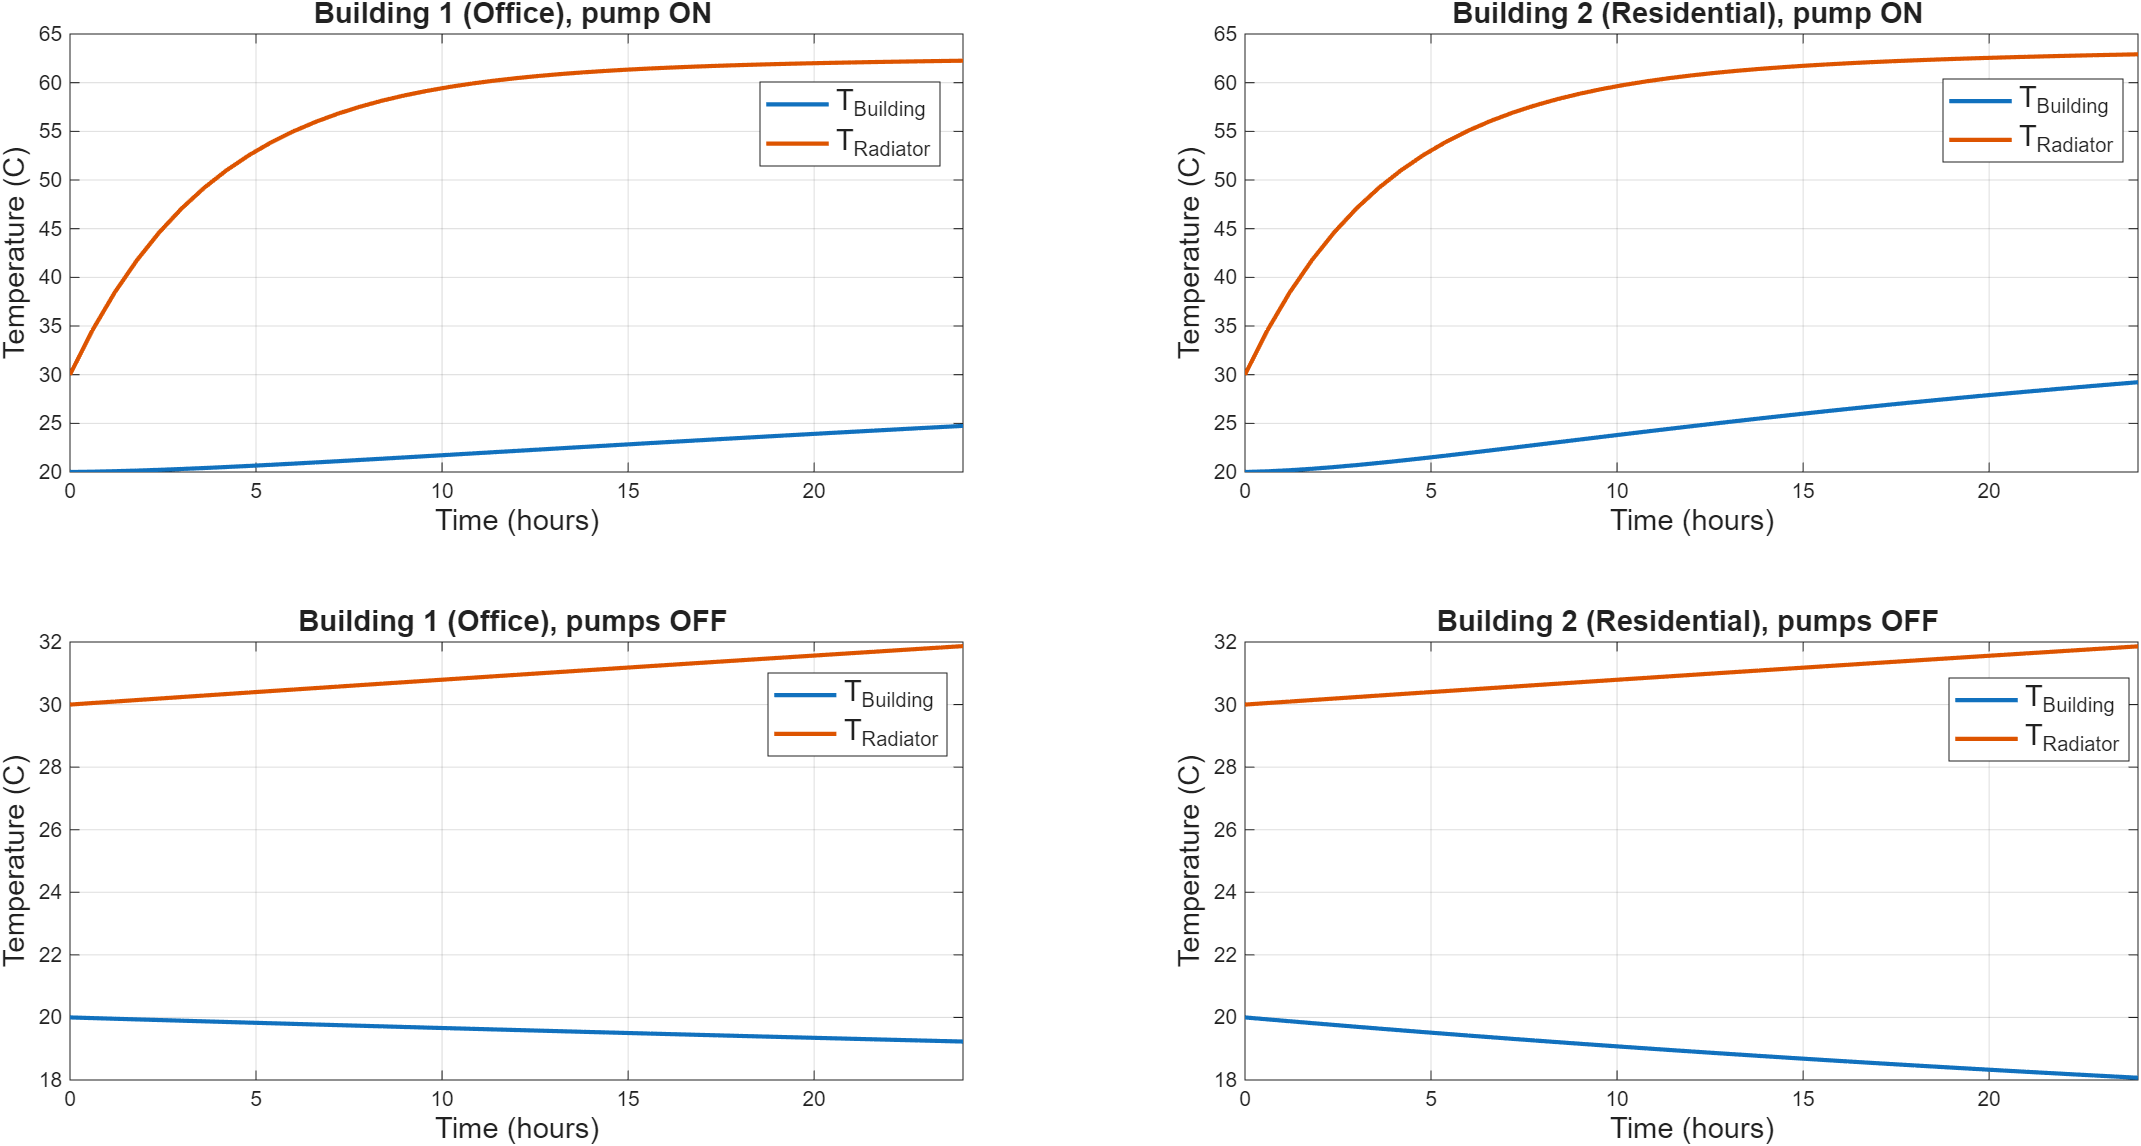
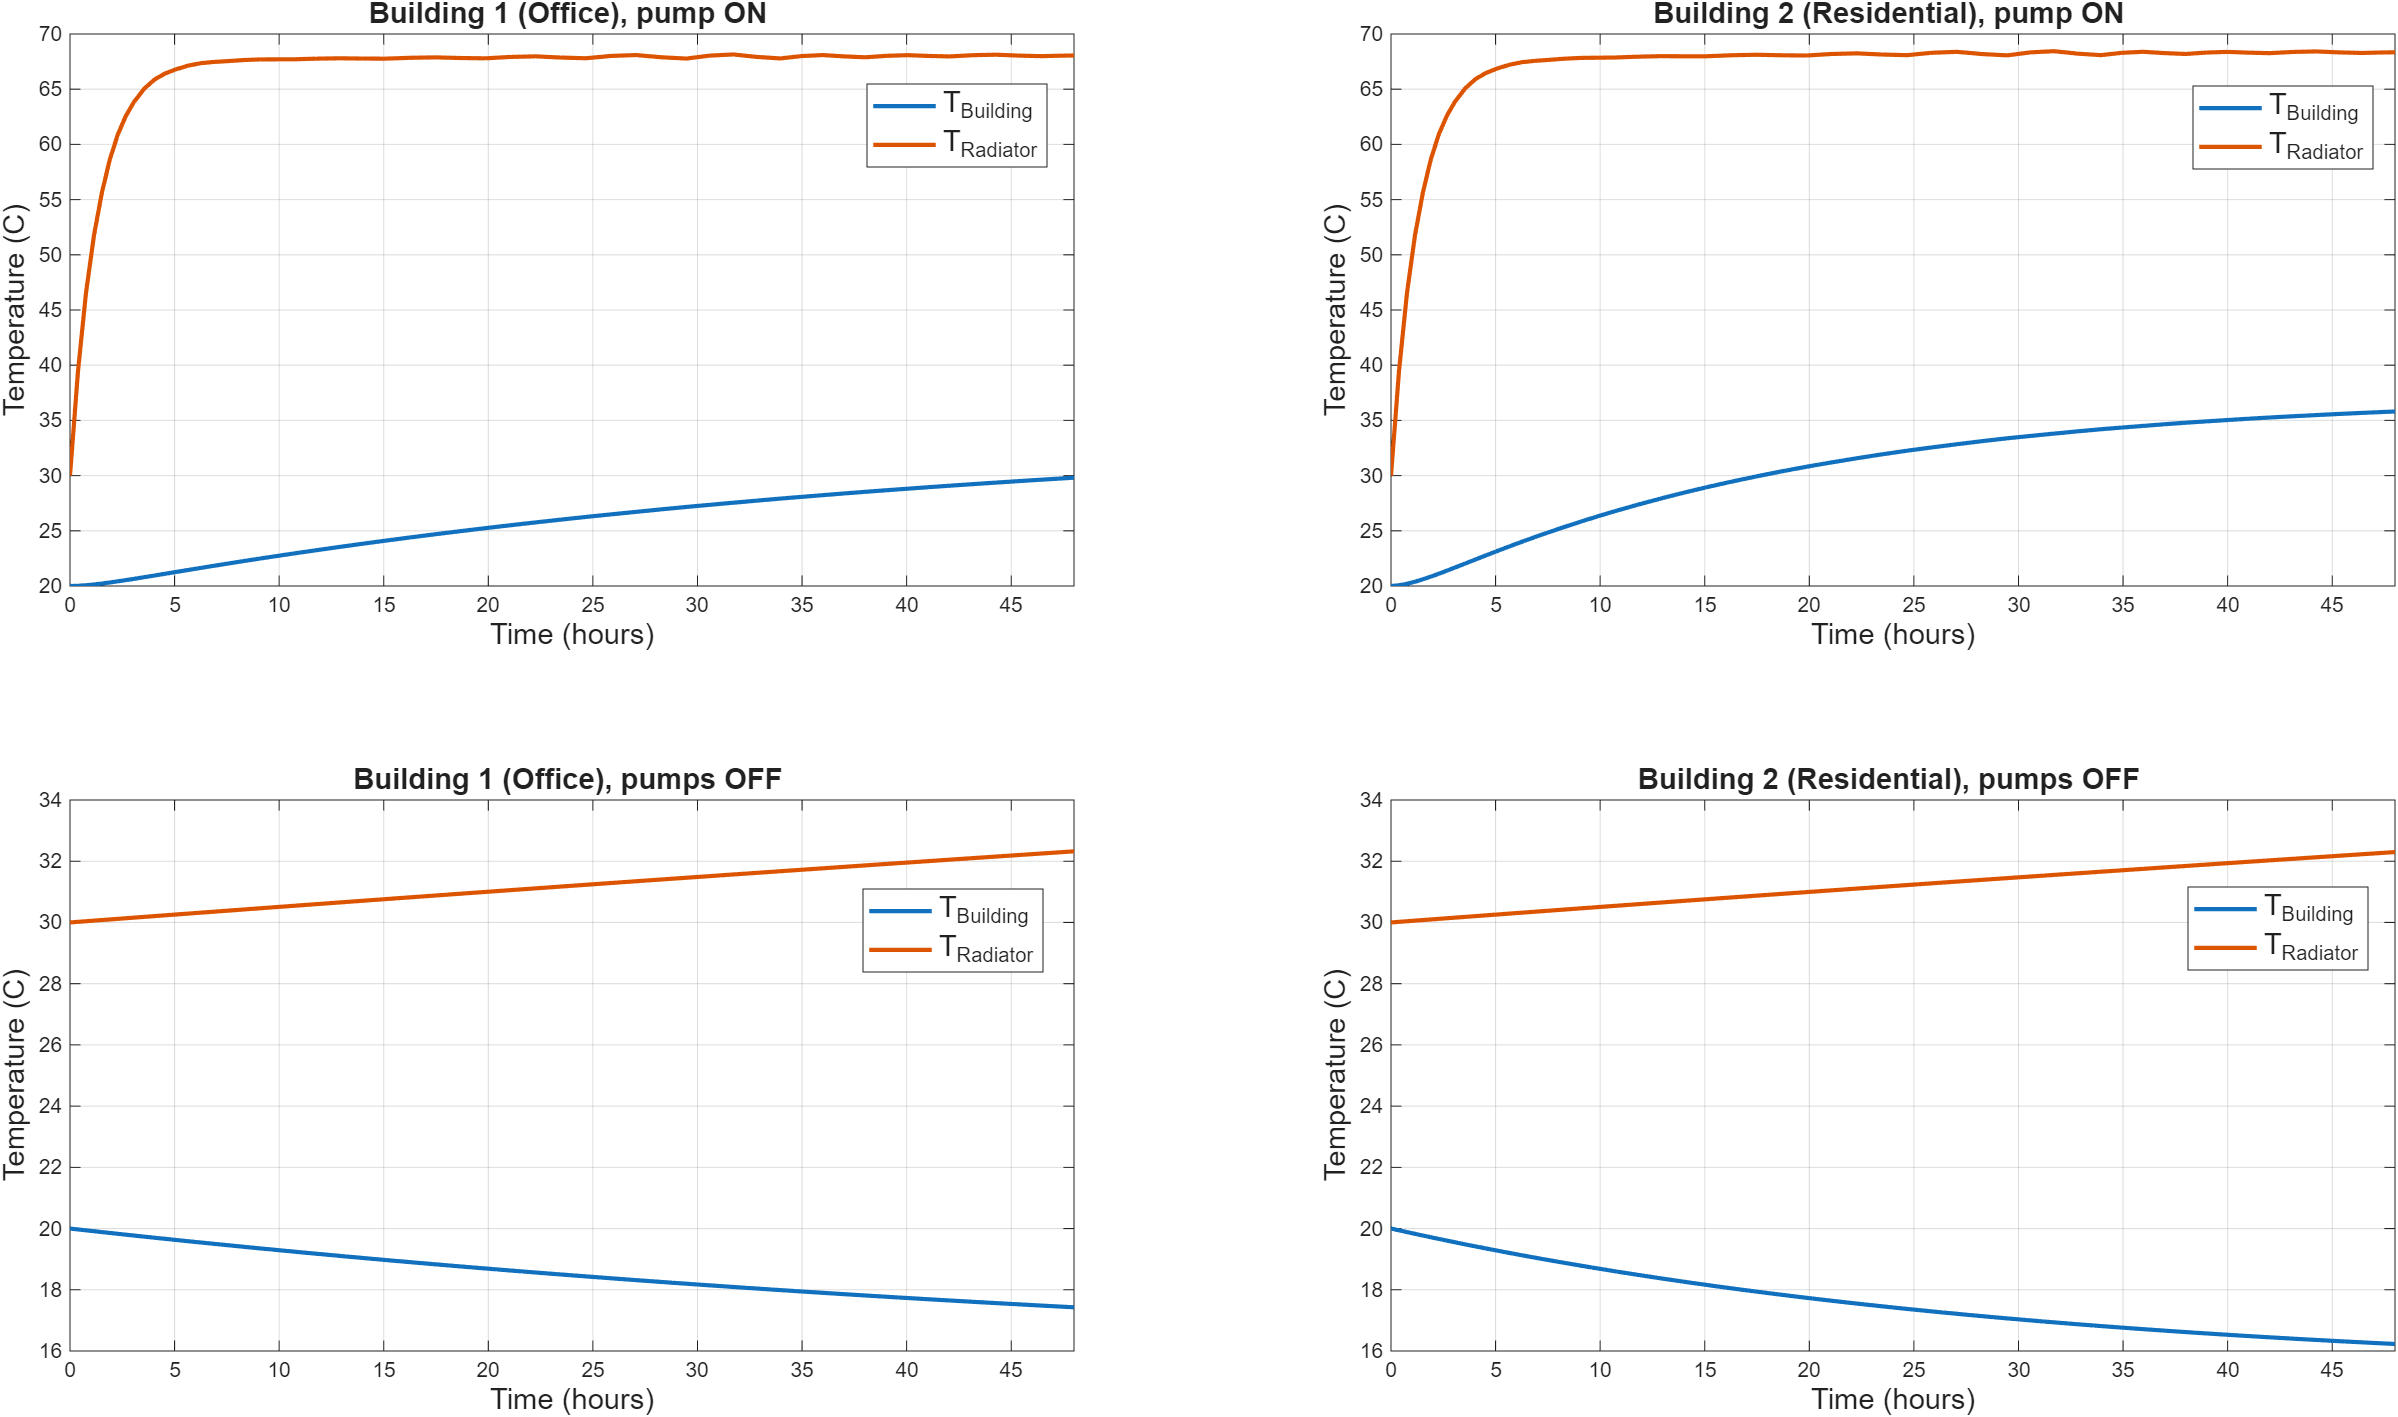
fixing plots

diff --git a/total_model.m b/total_model.m
@@ -33,10 +33,10 @@ x0(3:2:9) = 303.15; % T_rad (30 C)
 x0(10) = 590;     % Vm (steady state)
 x0(11) = 12;      % h_res (12m)
 x0(12) = params.C_hydro_battery; % q_batt (full)
-x0(13:end) = 323.15; % T_pipe (70 C)
+x0(13:end) = 318.15; % T_pipe (70 C)
 
 %% Running the simulations
-options = odeset('RelTol', 1e-4, 'AbsTol', 1e-5, 'MaxStep', 3, 'Stats', 'on');
+options = odeset('RelTol', 1e-4, 'AbsTol', 1e-5, 'MaxStep', 10, 'Stats', 'on');
 [t_sol, x_sol] = ode15s(@(t, x) complete_dynamics(t, x, params), ...
                                     t_span, x0, options);
 
@@ -75,6 +75,7 @@ plot(t_sol/3600, x_sol(:, 1) - 273.15, 'LineWidth', 3);
 title('LUMI Temperature', 'FontSize', 14); 
 xlabel('Time (hr)', 'FontSize', 14); 
 ylabel('Temp (C)', 'FontSize', 14);
+xlim([0 48]);
 grid on;
 
 % Pipe inlet and outlet temperature
@@ -87,17 +88,21 @@ plot(t_sol/3600, T_pipe_in, 'LineWidth', 3);
 title('Pipe Inlet and Outlet Temp', 'FontSize', 14);
 xlabel('Time (hr)', 'FontSize', 14); 
 ylabel('Temp (C)', 'FontSize', 14);
+xlim([0 48]);
 legend('Outlet', 'Inlet', 'FontSize', 14)
 grid on;
 
 % Building temperature
 subplot(2,2,3);
-plot(t_sol/3600, x_sol(:, 2) - 273.15, 'b', 'DisplayName', 'B1 (Office)', 'LineWidth', 3);
+plot(t_sol/3600, x_sol(:, 2) - 273.15, 'r', 'DisplayName', 'B1 (Office)', 'LineWidth', 3);
 hold on;
 plot(t_sol/3600, x_sol(:, 4) - 273.15, 'r', 'DisplayName', 'B2 (Res)', 'LineWidth', 3);
+plot(t_sol/3600, x_sol(:, 6) - 273.15, 'b--', 'DisplayName', 'B3 (Office)', 'LineWidth', 3);
+plot(t_sol/3600, x_sol(:, 8) - 273.15, 'b--', 'DisplayName', 'B4 (Res)', 'LineWidth', 3);
 title('Building Temperatures', 'FontSize', 14);
 xlabel('Time (hr)', 'FontSize', 14); 
 ylabel('Temp (C)', 'FontSize', 14);
+xlim([0 48]);
 legend('FontSize', 14);
 grid on;
 
@@ -105,12 +110,17 @@ grid on;
 subplot(2,2,4);
 T_rad_1 = x_sol(:,3) - 273.15;
 T_rad_2 = x_sol(:,5) - 273.15;
-plot(t_sol/3600, T_rad_1, 'LineStyle', '-', 'DisplayName', 'Radiator B1 (Office', 'LineWidth', 3);
+T_rad_3 = x_sol(:,7) - 273.15;
+T_rad_4 = x_sol(:,9) - 273.15;
+plot(t_sol/3600, T_rad_1, 'r', 'DisplayName', 'Radiator B1 (Office', 'LineWidth', 3);
 hold on
-plot(t_sol/3600, T_rad_2,  'LineStyle', '--', 'DisplayName', 'Radiator B2 (Res)', 'LineWidth', 3);
+plot(t_sol/3600, T_rad_2, 'r', 'DisplayName', 'Radiator B2 (Res)', 'LineWidth', 3);
+plot(t_sol/3600, T_rad_3, 'b--', 'DisplayName', 'Radiator B3 (Office)', 'LineWidth', 3);
+plot(t_sol/3600, T_rad_4, 'b--', 'DisplayName', 'Radiator B4 (Res)', 'LineWidth', 3);
 title('Radiator Temperatures', 'FontSize', 14);
 xlabel('Time (hr)', 'FontSize', 14); 
 ylabel('Temp (C)', 'FontSize', 14);
+xlim([0 48]);
 legend('FontSize', 14)
 grid on;
 
@@ -121,6 +131,7 @@ plot(t_sol/3600, x_sol(:, 11), 'DisplayName', 'Reservoir height', 'LineWidth', 3
 title('Reservoir Height', 'FontSize', 14);
 xlabel('Time (hr)', 'FontSize', 14); 
 ylabel('Height (m)', 'FontSize', 14);
+xlim([0 48]);
 legend('FontSize', 14)
 grid on;
 
@@ -129,6 +140,7 @@ plot(t_sol/3600, P_mech, 'DisplayName', 'Turbine mechanical power', 'LineWidth',
 title('Turbine mechanical power', 'FontSize', 14);
 xlabel('Time (hr)', 'FontSize', 14); 
 ylabel('Power (W)', 'FontSize', 14);
+xlim([0 48]);
 legend('FontSize', 14)
 legend; grid on;
 
@@ -172,7 +184,7 @@ building_nodes = [params.pipe_nodes.B1, params.pipe_nodes.B2, params.pipe_nodes.
 building_pos = x_pipe(building_nodes); 
 
 for i = 1:length(building_pos)
-    line([building_pos(i) building_pos(i)], y_limits, 'Color', 'k', 'LineStyle', '--', 'HandleVisibility', 'off', 'LineWidth', 3);
+    line([building_pos(i) building_pos(i)], y_limits, 'Color', 'k', 'LineStyle', '--', 'HandleVisibility', 'off', 'LineWidth', 2);
     text(building_pos(i), y_limits(1) + 0.05*diff(y_limits), sprintf(' B%d', i), 'HorizontalAlignment', 'left');
 end
 ylim(y_limits); 
@@ -270,7 +282,7 @@ function x_dot = complete_dynamics(t, x_total, params)
     
     % LUMI
     inputs_lumi.Q_lumi = params.SIM.Q_lumi;
-    inputs_lumi.T_out = T_dh_return; 
+    inputs_lumi.T_return = T_dh_return; 
     T_lumi_dot = SystemDynamics.lumi_dynamics(t, T_lumi, params, inputs_lumi);
     
     % Building 1

diff --git a/sim_buildings.m b/sim_buildings.m
@@ -5,7 +5,7 @@ clear; clc; close all;
 params = ImportParameters();
 
 % Simulation conditions
-t_span = [0 86400]; % Simulate for 24 hours
+t_span = [0 3600*48]; % Simulate for 48 hours
 x0 = [293.15; 303.15]; % Initial T_B = 20C, T_rad = 30C
 
 % Defining inputs
@@ -36,7 +36,7 @@ plot(t_sol_office_on / 3600, x_sol_office_on - 273.15, 'LineWidth', 2);
 title('Building 1 (Office), pump ON ', 'FontSize', 14);
 xlabel('Time (hours)', 'FontSize', 14);
 ylabel('Temperature (C)', 'FontSize', 14);
-xlim([0 24]);
+xlim([0 48]);
 legend('T_{Building}', 'T_{Radiator}', 'FontSize', 14);
 grid on;
 
@@ -46,7 +46,7 @@ plot(t_sol_res_on / 3600, x_sol_res_on - 273.15, 'LineWidth', 2);
 title('Building 2 (Residential), pump ON ', 'FontSize', 14);
 xlabel('Time (hours)', 'FontSize', 14);
 ylabel('Temperature (C)', 'FontSize', 14);
-xlim([0 24]);
+xlim([0 48]);
 legend('T_{Building}', 'T_{Radiator}', 'FontSize', 14);
 grid on;
 
@@ -56,7 +56,7 @@ plot(t_sol_office_off / 3600, x_sol_office_off - 273.15, 'LineWidth', 2);
 title('Building 1 (Office), pumps OFF ', 'FontSize', 14);
 xlabel('Time (hours)','FontSize', 14);
 ylabel('Temperature (C)', 'FontSize', 14);
-xlim([0 24]);
+xlim([0 48]);
 legend('T_{Building}', 'T_{Radiator}', 'FontSize', 14);
 grid on;
 
@@ -66,6 +66,6 @@ plot(t_sol_res_off / 3600, x_sol_res_off - 273.15, 'LineWidth', 2);
 title('Building 2 (Residential), pumps OFF ', 'FontSize', 14);
 xlabel('Time (hours)', 'FontSize', 14);
 ylabel('Temperature (C)', 'FontSize', 14);
-xlim([0 24]);
+xlim([0 48]);
 legend('T_{Building}', 'T_{Radiator}', 'FontSize', 14);
 grid on;

diff --git a/sim_piping.m b/sim_piping.m
@@ -20,33 +20,22 @@ nodeB2 = 2 * nodeB1;
 nodeB3 = 3 * nodeB1;
 nodeB4 = 4 * nodeB1;
 
-% Initialize the heat sink values for the nodes
-inputs.Q_sinks = zeros(params.N, 1); % No buildings attached
-inputs.Q_sinks(nodeB1) = 14000; % Heat sink at nodeB1
-inputs.Q_sinks(nodeB2) = 5000; % Heat sink at nodeB2
-inputs.Q_sinks(nodeB3) = inputs.Q_sinks(nodeB1); % Heat sink at nodeB3
-inputs.Q_sinks(nodeB4) = inputs.Q_sinks(nodeB2); % Heat sink at nodeB4
+inputs.Q_sinks = zeros(params.N, 1);
+inputs.Q_sinks(nodeB1) = 14000; 
+inputs.Q_sinks(nodeB2) = 5000; 
+inputs.Q_sinks(nodeB3) = inputs.Q_sinks(nodeB1);
+inputs.Q_sinks(nodeB4) = inputs.Q_sinks(nodeB2); 
 
-options = odeset('RelTol', 1e-4, 'AbsTol', 1e-5, 'MaxStep', 7, 'Stats', 'on');
+options = odeset('RelTol', 1e-4, 'AbsTol', 1e-5, 'MaxStep', 10, 'Stats', 'on');
 
 % Running simulation
 [t_sol, x_sol] = ode15s(@(t, x) SystemDynamics.piping_dynamics(t, x, params, inputs), ...
                                     t_span, x0, options);
 
-% t0 = 1;
-% t1 = round(length(t_sol) / 4);
-% t2 = round(2*t1);
-% t3 = round(3*t1);
-% t4 = round(4*t1);
-% t_array = [t0 t1 t2 t3 t4];
 
 % Plotting results
 figure;
 x_pipe = linspace(params.Delta_x, params.L_dh, params.N);
-% for i = t_array
-%     plot(x_pipe, x_sol(i, :) - 273.15, 'LineWidth', 3);
-%     hold on
-% end 
 plot(x_pipe, x_sol(end, :) - 273.15, 'LineWidth', 3);
 title('Piping Temperature Profile at t = 24 hours', 'FontSize', 14);
 xlabel('Pipe Position (m)', 'FontSize', 14);

diff --git a/sim_reservoir.m b/sim_reservoir.m
@@ -42,16 +42,18 @@ figure;
 subplot(3, 1, 1); 
 plot(t_sol / 3600, h_sol, 'b-', 'LineWidth', 2);
 hold on;
-yline(params.h_hydro_min, 'r--');
-yline(params.h_hydro_max, 'r--');
+yline(params.h_hydro_min, 'r--', 'LineWidth', 2);
+yline(params.h_hydro_max, 'r--', 'LineWidth', 2);
 title('Reservoir Level h(t)', 'FontSize', 14);
 xlabel('Time (hours)', 'FontSize', 14);
 ylabel('Height (m)', 'FontSize', 14);
+ylim([9 26])
+xlim([0 48]);
 legend('Water Level', 'Min/Max Levels', 'FontSize', 14);
 grid on;
 
 subplot(3, 1, 2);
-w_in_1 = inputs.w_in(1)*ones(round(size(t_sol)/2));
+w_in_1 = inputs.w_in(1)*ones(ceil(size(t_sol)/2));
 w_in_2 = inputs.w_in(2)*ones(round(size(t_sol)/2));
 w_in_array = horzcat(w_in_1, w_in_2);
 plot(t_sol / 3600, w_in_array(1:end-1), 'DisplayName', 'Inflow (w_{in})', 'LineWidth', 2);

diff --git a/sim_lumi.m b/sim_lumi.m
@@ -10,8 +10,8 @@ T_initial = 303.15; % Initial temp (30 C)
 x0 = T_initial;
 
 % Defining inputs for isolated simulation
-inputs.Q_lumi = [1e5 0.8e5];  % 0.5 MW heat load
-inputs.T_out = 313.15; % 40 C 
+inputs.Q_lumi = [1e5 0.8e5];  
+inputs.T_return = 313.15; % 40 C 
 
 % Running the simulation
 [t_sol, x_sol] = ode45(@(t, x) SystemDynamics.lumi_dynamics(t, x, params, inputs), t_span, x0);
@@ -24,5 +24,5 @@ xlabel('Time (hours)', 'FontSize', 14);
 xlim([0 48]);
 ylim([20 75]);
 ylabel('Temperature T_{LUMI} (C)', 'FontSize', 14);
-legend('Temperature', 'FontSize', 14);
+legend('LUMI Temperature', 'FontSize', 14);
 grid on;

diff --git a/ImportParameters.m b/ImportParameters.m
@@ -21,7 +21,7 @@ function params = ImportParameters ()
     params.C_rad = params.rho_w * params.cp * params.V_water_B; 
     params.R_rad_low = 0.008;  
     params.R_rad_high = 0.5;
-    params.R_ex_B_low = 0.0005;
+    params.R_ex_B_low = 0.0004;
     params.R_ex_B_high = 0.2;
     params.R_wall_ij = 0.02;
     
@@ -37,7 +37,7 @@ function params = ImportParameters ()
     
     % Hydro & Battery parameters
     params.A_res = 3000;
-    params.R_hydro_flow = 1.2e5; %7
+    params.R_hydro_flow = 1.2e5; 
     params.h_hydro_min = 10;
     params.h_hydro_max = 25;
     params.eta_hydro_turbine = 0.85;

diff --git a/SystemDynamics.m b/SystemDynamics.m
@@ -11,7 +11,7 @@ classdef SystemDynamics
             R_ex_lumi = params.R_ex_lumi;
             
             % Unpacking inputs            
-            T_out = inputs.T_out; 
+            T_return = inputs.T_return; 
             if t <= 24*3600
                 Q_lumi = inputs.Q_lumi(1);
             else 
@@ -19,7 +19,7 @@ classdef SystemDynamics
             end
 
             % Model
-            Q_out = (T_lumi - T_out) / R_ex_lumi;
+            Q_out = (T_lumi - T_return) / R_ex_lumi;
             T_lumi_dot = (Q_lumi - Q_out) / C_lumi;
 
         end

diff --git a/sim_pump_circuit.m b/sim_pump_circuit.m
@@ -23,7 +23,7 @@ inputs_off.V_in = 0;
 inputs_off.Sp_state = 'OPEN';
 
 % Running simulation with pump OFF
-[t_sol_off, x_sol_off] = ode15s(@(t, x) SystemDynamics.pump_circuit_dynamics(t, x, params, inputs_off), ...
+[t_sol_off, x_sol_off] = ode45(@(t, x) SystemDynamics.pump_circuit_dynamics(t, x, params, inputs_off), ...
                                     t_span_off, x0_off);
 
 % Plotting results
